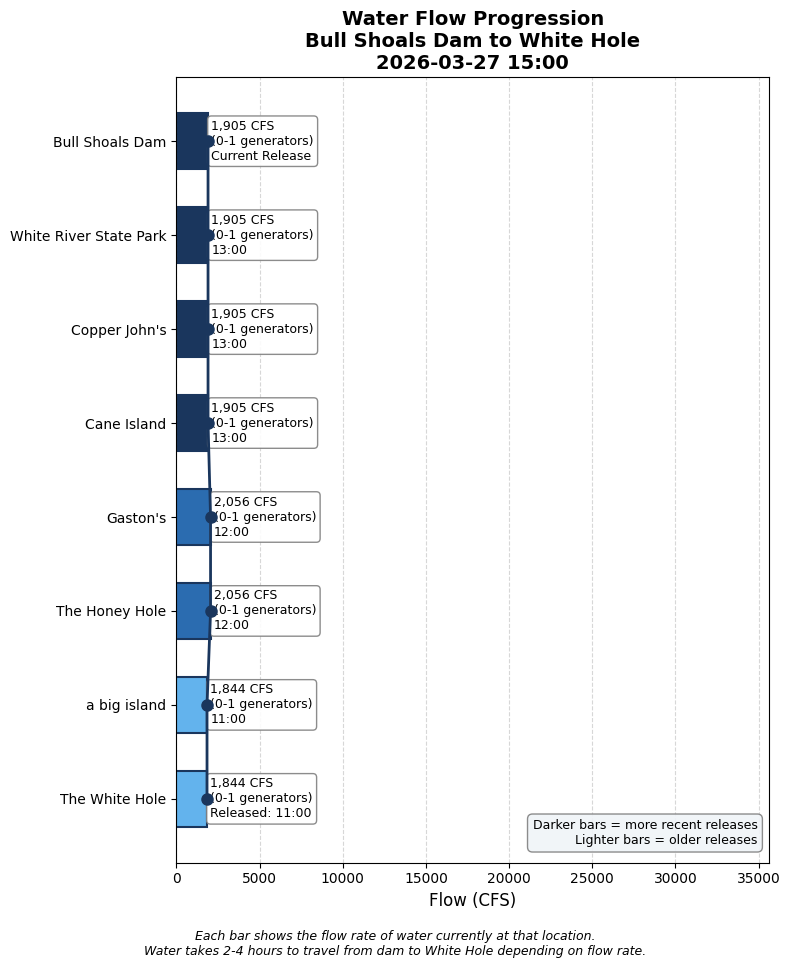
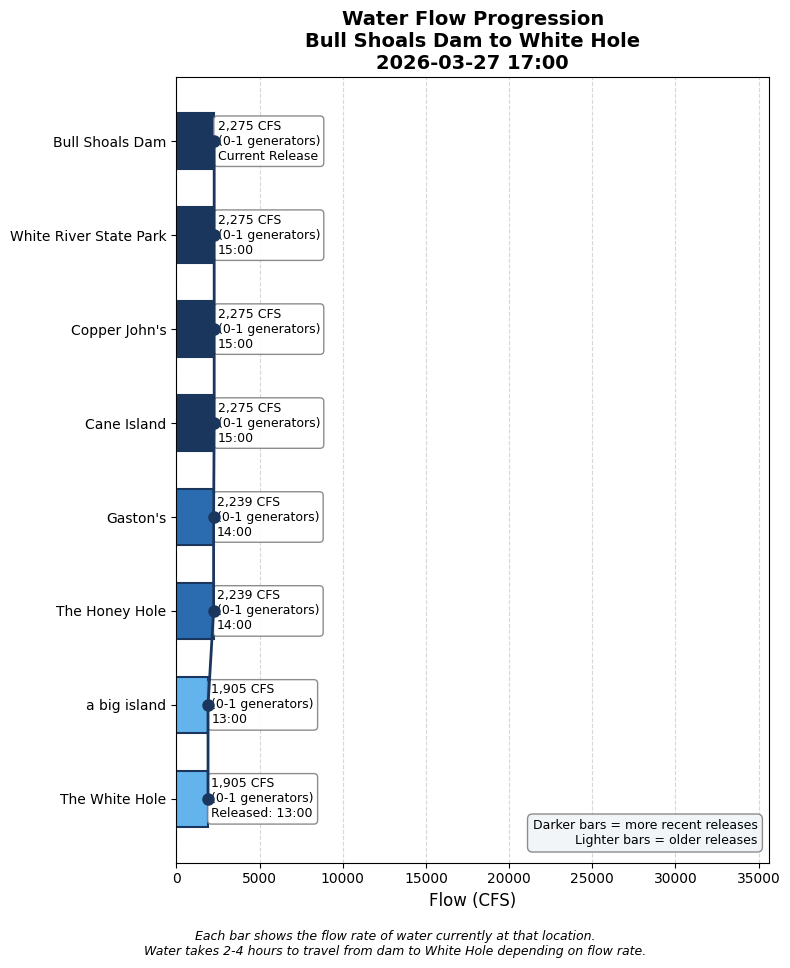
Update water conditions 2026-03-27 17:00

Changed region(s): [[0.243, 0.124, 0.4253, 0.8678]]

diff --git a/white_hole_conditions.html b/white_hole_conditions.html
@@ -3,51 +3,335 @@
 <head>
     <meta charset="UTF-8">
     <meta name="viewport" content="width=device-width, initial-scale=1.0">
-    <title>White Hole Conditions - Error</title>
+    <title>White Hole Conditions - 2026-03-27 17:00</title>
     <style>
         body {
-            font-family: Arial, sans-serif;
+            font-family: -apple-system, BlinkMacSystemFont, 'Segoe UI', Roboto, sans-serif;
             line-height: 1.6;
             color: #333;
-            max-width: 800px;
+            max-width: 900px;
             margin: 0 auto;
             padding: 20px;
-            background-color: #f5f5f5;
+            background-color: #f7fafc;
         }
         h1 {
             color: #2c3e50;
-            border-bottom: 2px solid #e74c3c;
+            margin-bottom: 5px;
+        }
+        .subtitle {
+            color: #718096;
+            margin-bottom: 20px;
+        }
+        .headline-banner {
+            background-color: #319795;
+            color: white;
+            border-radius: 12px;
+            padding: 25px;
+            margin-bottom: 20px;
+            box-shadow: 0 4px 6px rgba(0,0,0,0.1);
+        }
+        .headline-banner .main-status {
+            font-size: 24px;
+            font-weight: bold;
+            margin-bottom: 10px;
+        }
+        .headline-banner .forecast-status {
+            font-size: 18px;
+            opacity: 0.95;
+        }
+        .current-conditions {
+            background-color: white;
+            border-radius: 12px;
+            padding: 20px;
+            margin-bottom: 20px;
+            box-shadow: 0 2px 4px rgba(0,0,0,0.1);
+        }
+        .current-conditions h3 {
+            margin-top: 0;
+            color: #2c3e50;
+            border-bottom: 2px solid #e2e8f0;
             padding-bottom: 10px;
         }
-        .error-box {
-            background-color: #fef0f0;
-            border-left: 4px solid #e74c3c;
-            padding: 15px;
-            margin: 20px 0;
-            border-radius: 4px;
+        .flow-display {
+            font-size: 36px;
+            font-weight: bold;
+            color: #2b6cb0;
+        }
+        .generator-display {
+            font-size: 18px;
+            color: #666;
+            margin-bottom: 15px;
+        }
+        .condition-pills {
+            display: flex;
+            gap: 10px;
+            flex-wrap: wrap;
+        }
+        .pill {
+            padding: 8px 16px;
+            border-radius: 20px;
+            font-weight: 500;
+        }
+        .pill.wading {
+            background-color: #d1fae5;
+            color: #065f46;
+        }
+        .pill.boating {
+            background-color: #fef3c7;
+            color: #92400e;
+        }
+        .timeline-box {
+            background-color: white;
+            border-radius: 12px;
+            padding: 20px;
+            margin-bottom: 20px;
+            box-shadow: 0 2px 4px rgba(0,0,0,0.1);
+        }
+        .timeline-box h3 {
+            margin-top: 0;
+            color: #2c3e50;
+        }
+        .chart-section {
+            background-color: white;
+            border-radius: 12px;
+            padding: 20px;
+            margin-bottom: 20px;
+            box-shadow: 0 2px 4px rgba(0,0,0,0.1);
+        }
+        .chart-section h3 {
+            margin-top: 0;
+            color: #2c3e50;
+        }
+        .webcam-link {
+            display: inline-block;
+            background-color: #ebf8ff;
+            color: #2b6cb0;
+            padding: 10px 20px;
+            border-radius: 8px;
+            border: 1px solid #bee3f8;
+            text-decoration: none;
+            font-weight: 500;
+        }
+        .webcam-link:hover {
+            background-color: #bee3f8;
+        }
+        .details-section {
+            background-color: white;
+            border-radius: 12px;
+            margin-bottom: 20px;
+            box-shadow: 0 2px 4px rgba(0,0,0,0.1);
+        }
+        .details-section summary {
+            list-style: none;
+        }
+        .details-section summary::-webkit-details-marker {
+            display: none;
         }
         .timestamp {
-            font-size: 0.8em;
-            color: #7f8c8d;
-            text-align: right;
+            font-size: 0.85em;
+            color: #718096;
+            text-align: center;
             margin-top: 20px;
+        }
+        @media (max-width: 600px) {
+            .headline-banner .main-status {
+                font-size: 20px;
+            }
+            .headline-banner .forecast-status {
+                font-size: 16px;
+            }
+            .flow-display {
+                font-size: 28px;
+            }
         }
     </style>
 </head>
 <body>
-    <h1>White Hole Conditions - Error</h1>
+    <h1>White Hole Current Conditions</h1>
+    <p class="subtitle">Friday, March 27, 2026 at 05:00 PM</p>
 
-    <div class="error-box">
-        <p>
-ERROR: Unable to retrieve data from Bull Shoals Dam website.
-Please try again later or check your internet connection.
-
-The White Hole water conditions cannot be determined at this time.
-</p>
+    <!-- HEADLINE BANNER -->
+    <div class="headline-banner">
+        <div class="main-status">✅ GOOD WADING — Conditions favorable</div>
+        <div class="forecast-status">➡ STABLE CONDITIONS expected</div>
     </div>
 
+    <!-- CURRENT CONDITIONS -->
+    <div class="current-conditions">
+        <h3>Current Conditions at White Hole</h3>
+        <div class="flow-display">1,905 CFS</div>
+        <div class="generator-display">Equivalent to 0-1 generators</div>
+        <div class="condition-pills">
+            <span class="pill wading">Excellent Wading</span>
+            <span class="pill boating">Low For Boating</span>
+        </div>
+        <a href="https://www.youtube.com/channel/UCAXhb9nFnsfu367AthDrgIA/live" target="_blank" class="webcam-link" style="margin-top: 15px;">
+            📹 View Live Webcam
+        </a>
+    </div>
+
+    <!-- TIMELINE -->
+    
+        <div class="timeline-box">
+            <h3>What's Coming</h3>
+            <p style="color: #666; margin-bottom: 15px;">Water released at the dam takes 2-4 hours to reach White Hole</p>
+            <table style="width: 100%; border-collapse: collapse;">
+                <thead>
+                    <tr style="border-bottom: 2px solid #ddd;">
+                        <th style="padding: 10px; text-align: left;">Released</th>
+                        <th style="padding: 10px; text-align: left;">Flow</th>
+                        <th style="padding: 10px; text-align: left;">Status</th>
+                    </tr>
+                </thead>
+                <tbody>
+                    
+                <tr style="background-color: #ebf8ff;">
+                    <td style="padding: 10px; font-weight: bold;">15:00</td>
+                    <td style="padding: 10px;">2,275 CFS<br><small style="color: #666;">(0-1 generators)</small></td>
+                    <td style="padding: 10px;"><span style="color: #2b6cb0;">→ Arrives ~18:44 (in 103 min)</span></td>
+                </tr>
+            
+                <tr style="background-color: #ebf8ff;">
+                    <td style="padding: 10px; font-weight: bold;">14:00</td>
+                    <td style="padding: 10px;">2,239 CFS<br><small style="color: #666;">(0-1 generators)</small></td>
+                    <td style="padding: 10px;"><span style="color: #2b6cb0;">→ Arrives ~17:44 (in 43 min)</span></td>
+                </tr>
+            
+                <tr style="background-color: #e6fffa;">
+                    <td style="padding: 10px; font-weight: bold;">13:00</td>
+                    <td style="padding: 10px;">1,905 CFS<br><small style="color: #666;">(0-1 generators)</small></td>
+                    <td style="padding: 10px;"><span style="color: #319795; font-weight: bold;">← AT WHITE HOLE NOW</span></td>
+                </tr>
+            
+                <tr style="">
+                    <td style="padding: 10px; font-weight: bold;">10:00</td>
+                    <td style="padding: 10px;">2,365 CFS<br><small style="color: #666;">(0-1 generators)</small></td>
+                    <td style="padding: 10px;"><span style="color: #718096;">passed</span></td>
+                </tr>
+            
+                </tbody>
+            </table>
+        </div>
+        
+
+    <!-- CHART PLACEHOLDER -->
+    <div class="chart-section">
+        <h3>Water Flow Progression</h3>
+        <p style="color: #666;">Chart shows water traveling from Bull Shoals Dam to White Hole</p>
+        <div id="chart-container" style="text-align: center; margin: 20px 0;">
+            <img src="vertical_flow_chart.png" alt="Water Flow Progression Chart" style="max-width: 100%; height: auto; border-radius: 8px;">
+        </div>
+    </div>
+
+    <!-- COLLAPSIBLE DETAILS -->
+    <details class="details-section">
+        <summary style="cursor: pointer; font-weight: bold; padding: 15px; background: #f7fafc; border-radius: 8px;">
+            📋 Calculation Details
+        </summary>
+        <div style="padding: 15px;">
+            <ul>
+                <li>Latest dam reading: 2,275 CFS at 2026-03-27 15:00</li>
+                <li>Travel time to White Hole: 3.7 hours at current flow</li>
+                <li>White Hole conditions based on dam reading from: 2026-03-27 13:00</li>
+            </ul>
+        </div>
+    </details>
+
+    
+        <details class="details-section">
+            <summary style="cursor: pointer; font-weight: bold; padding: 10px; background: #f7fafc; border-radius: 8px;">
+                📊 View Last 12 Hours of Dam Readings
+            </summary>
+            <div style="padding: 15px;">
+                <table style="width: 100%; border-collapse: collapse; margin-top: 10px;">
+                    <thead>
+                        <tr style="background-color: #f2f2f2; border-bottom: 1px solid #ddd;">
+                            <th style="padding: 8px; text-align: left;">Date/Time</th>
+                            <th style="padding: 8px; text-align: right;">Flow (CFS)</th>
+                            <th style="padding: 8px; text-align: right;">Generators</th>
+                            <th style="padding: 8px; text-align: right;">Travel Time (hrs)</th>
+                        </tr>
+                    </thead>
+                    <tbody>
+                        
+                <tr style="border-bottom: 1px solid #eee;">
+                    <td style="padding: 8px;">2026-03-27 15:00</td>
+                    <td style="padding: 8px; text-align: right;">2275</td>
+                    <td style="padding: 8px; text-align: right;">0.7</td>
+                    <td style="padding: 8px; text-align: right;">3.7</td>
+                </tr>
+                
+                <tr style="border-bottom: 1px solid #eee;">
+                    <td style="padding: 8px;">2026-03-27 14:00</td>
+                    <td style="padding: 8px; text-align: right;">2239</td>
+                    <td style="padding: 8px; text-align: right;">0.7</td>
+                    <td style="padding: 8px; text-align: right;">3.7</td>
+                </tr>
+                
+                <tr style="border-bottom: 1px solid #eee;">
+                    <td style="padding: 8px;">2026-03-27 13:00</td>
+                    <td style="padding: 8px; text-align: right;">1905</td>
+                    <td style="padding: 8px; text-align: right;">0.6</td>
+                    <td style="padding: 8px; text-align: right;">3.7</td>
+                </tr>
+                
+                <tr style="border-bottom: 1px solid #eee;">
+                    <td style="padding: 8px;">2026-03-27 12:00</td>
+                    <td style="padding: 8px; text-align: right;">2056</td>
+                    <td style="padding: 8px; text-align: right;">0.6</td>
+                    <td style="padding: 8px; text-align: right;">3.7</td>
+                </tr>
+                
+                <tr style="border-bottom: 1px solid #eee;">
+                    <td style="padding: 8px;">2026-03-27 11:00</td>
+                    <td style="padding: 8px; text-align: right;">1844</td>
+                    <td style="padding: 8px; text-align: right;">0.6</td>
+                    <td style="padding: 8px; text-align: right;">3.7</td>
+                </tr>
+                
+                <tr style="border-bottom: 1px solid #eee;">
+                    <td style="padding: 8px;">2026-03-27 10:00</td>
+                    <td style="padding: 8px; text-align: right;">2365</td>
+                    <td style="padding: 8px; text-align: right;">0.7</td>
+                    <td style="padding: 8px; text-align: right;">3.7</td>
+                </tr>
+                
+                <tr style="border-bottom: 1px solid #eee;">
+                    <td style="padding: 8px;">2026-03-27 09:00</td>
+                    <td style="padding: 8px; text-align: right;">2310</td>
+                    <td style="padding: 8px; text-align: right;">0.7</td>
+                    <td style="padding: 8px; text-align: right;">3.7</td>
+                </tr>
+                
+                <tr style="border-bottom: 1px solid #eee;">
+                    <td style="padding: 8px;">2026-03-27 08:00</td>
+                    <td style="padding: 8px; text-align: right;">2235</td>
+                    <td style="padding: 8px; text-align: right;">0.7</td>
+                    <td style="padding: 8px; text-align: right;">3.7</td>
+                </tr>
+                
+                <tr style="border-bottom: 1px solid #eee;">
+                    <td style="padding: 8px;">2026-03-27 07:00</td>
+                    <td style="padding: 8px; text-align: right;">2310</td>
+                    <td style="padding: 8px; text-align: right;">0.7</td>
+                    <td style="padding: 8px; text-align: right;">3.7</td>
+                </tr>
+                
+                <tr style="border-bottom: 1px solid #eee;">
+                    <td style="padding: 8px;">2026-03-27 06:00</td>
+                    <td style="padding: 8px; text-align: right;">2163</td>
+                    <td style="padding: 8px; text-align: right;">0.7</td>
+                    <td style="padding: 8px; text-align: right;">3.7</td>
+                </tr>
+                
+                    </tbody>
+                </table>
+            </div>
+        </details>
+        
+
     <div class="timestamp">
-        Generated on 2026-03-27 16:00:37
+        Data retrieved and processed on 2026-03-27 17:00:08
     </div>
 </body>
 </html>
